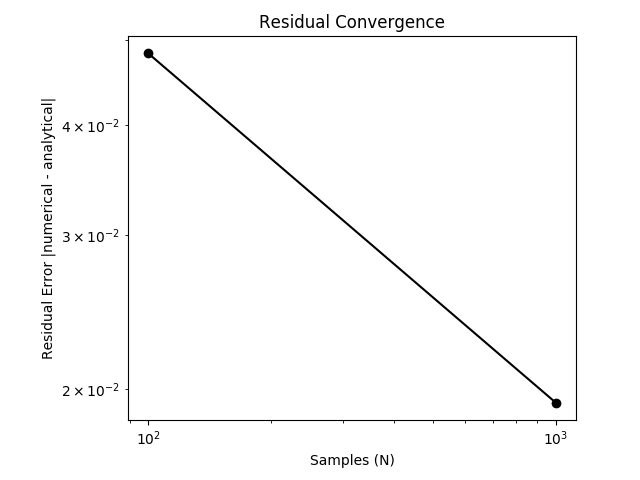
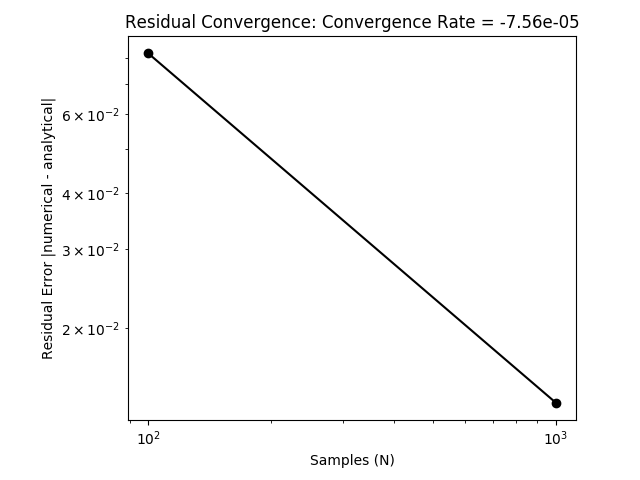
Round convergence rate

diff --git a/homework_1/assignment_1.py b/homework_1/assignment_1.py
@@ -169,7 +169,7 @@ if __name__ == "__main__":
     ax.loglog(results.samples, results.errors, color='black', marker='o')
 
     # Insert plot labels
-    ax.set_title(f"Residual Convergence - {convergence_rate}")
+    ax.set_title(f"Residual Convergence: Convergence Rate = {round(convergence_rate,7)}")
     ax.set_xlabel('Samples (N)')
     ax.set_ylabel('Residual Error |numerical - analytical|')
 
